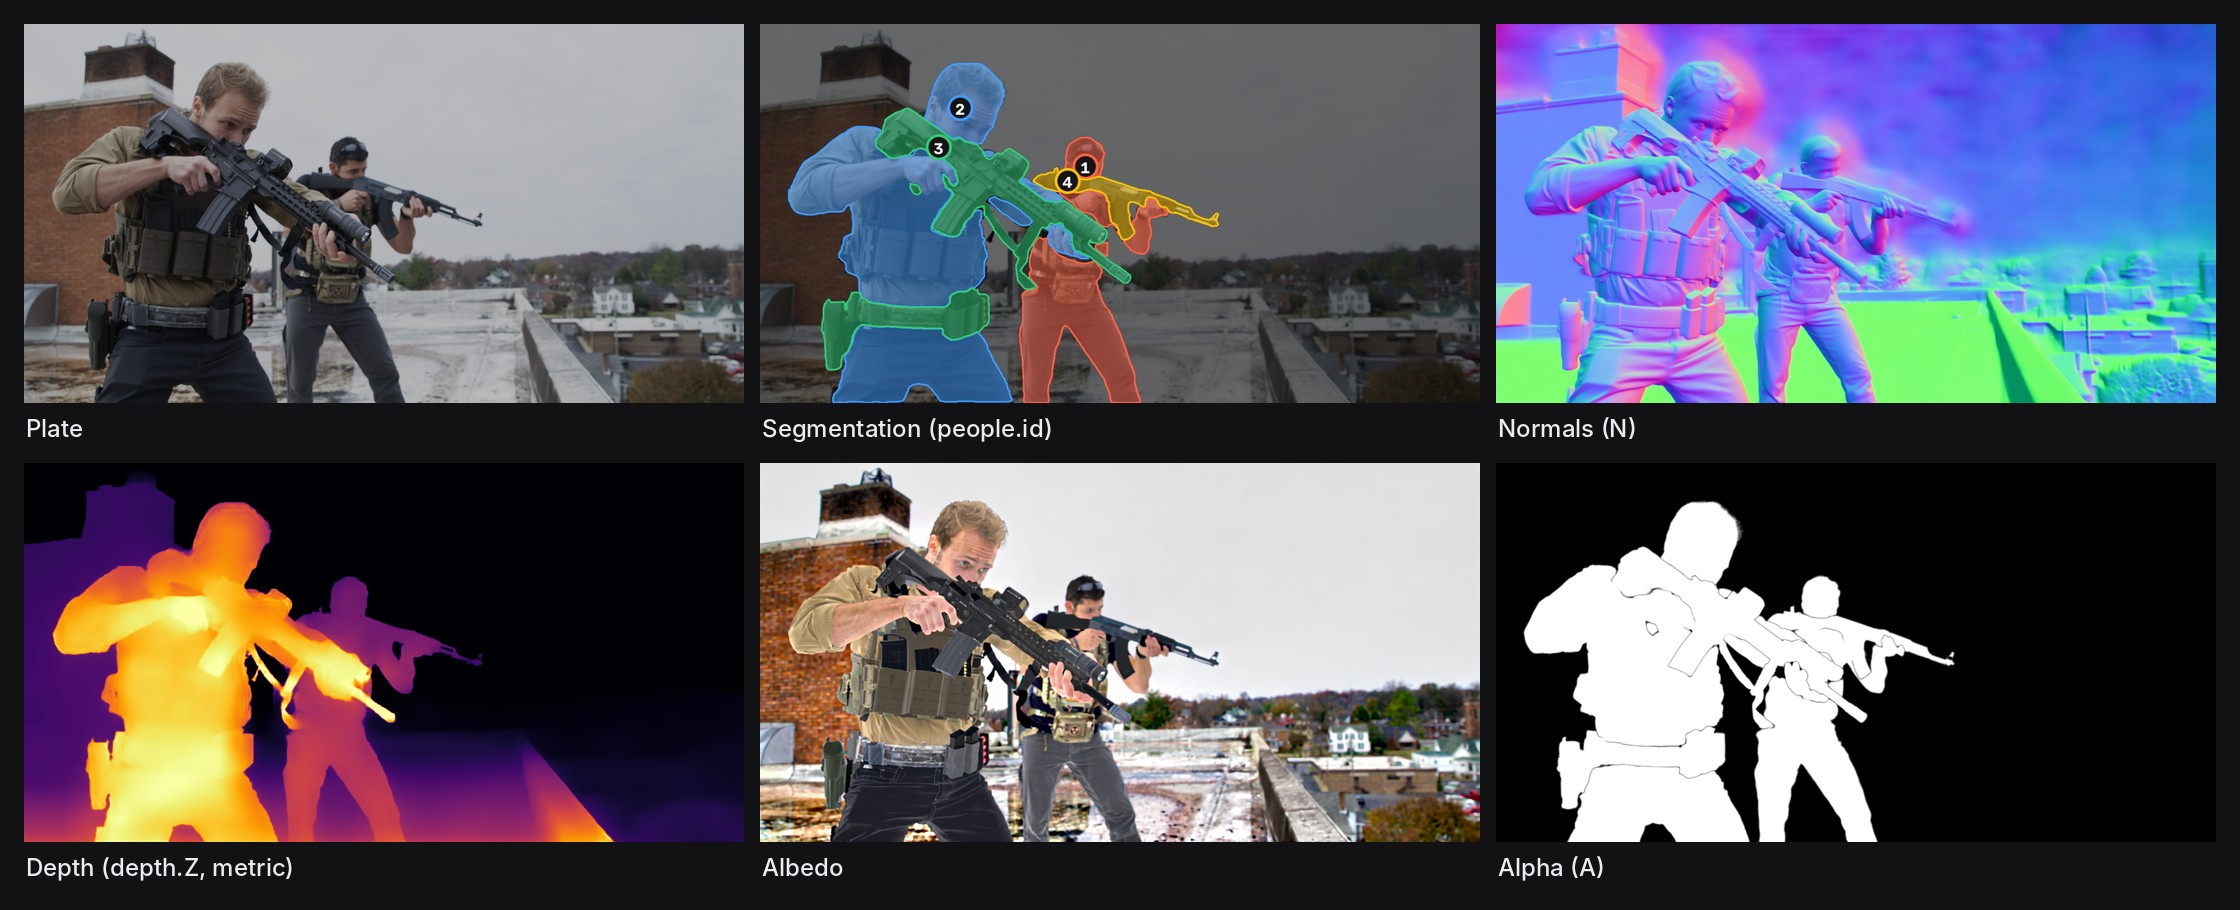
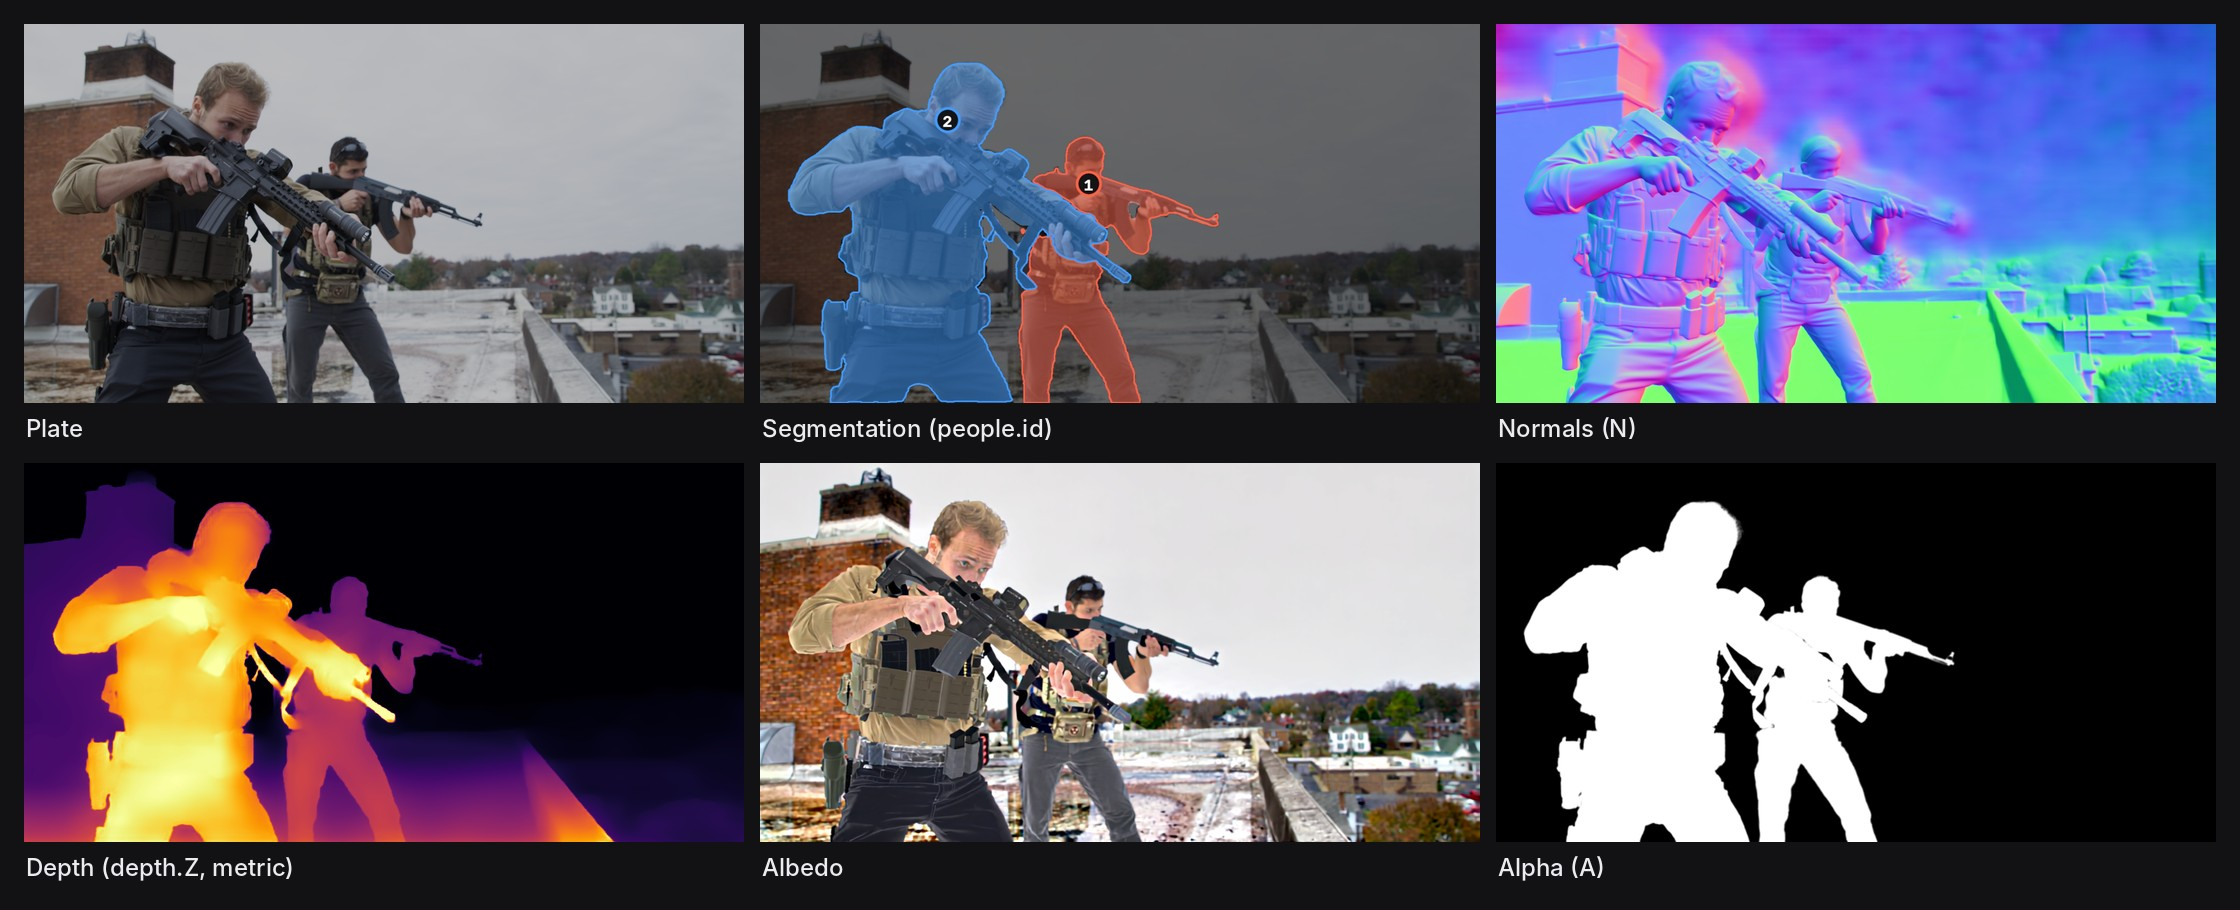
Selection alpha: no seam where two numbers touch; new numbers never hidden
- Selection (MatAnyone 2): where two selected numbers touch (a rifle on a
  body, one person in front of another), the combined A adds their soft
  edges instead of keeping the most opaque one, so no grey seam is left
- a new person / object no longer reuses a number that was unticked,
  merged or named before (it came out hidden), and Find everyone clears
  the unticked / "same as" choices of the previous numbering
- README images: the military shot with the two soldiers selected

Claude-Session: https://claude.ai/code/session_01TyL3hqyYHaug9D4nWScniM

Changed region(s): [[0.3438, 0.0923, 0.5625, 0.4], [0.8125, 0.7077, 0.8438, 0.7385], [0.7812, 0.6769, 0.8125, 0.7077]]

diff --git a/laa/pipeline.py b/laa/pipeline.py
@@ -67,10 +67,11 @@ STEP_NAMES = [s[0] for s in STEPS]
 STEP_VERSION = {"people": 4,              # 4: SAM 2.1 keyframes + propagation (Sammie-Roto style)
                 "seg": 2,                 # 2: single-channel PNGs were written mirrored
                 "albedo": 3,              # 2: face crops on the head only, 3: blend inside the head
-                "alpha": 8,               # 4: one crop per numbered person (SAM3), 5: objects = SAM mask
+                "alpha": 9,               # 4: one crop per numbered person (SAM3), 5: objects = SAM mask
                                           # 6: what a person holds stays in their alpha again
                                           # 7: no bleed from people you did not select
                                           # 8: Foreground (LTX, whole frame) / Selection (MatAnyone 2)
+                                          # 9: Selection: no seam where two numbers touch
                 "crops": 3,               # 2: one crop per numbered person, 3: the crop holds all of them
                 "write": 3}               # 2: passes can be turned off, 3: people id layer
 
@@ -838,7 +839,11 @@ class Job(object):
         m = None
         out_dir = os.path.join(self.cache, "alpha", "numbers")
         os.makedirs(out_dir, exist_ok=True)
-        combined = np.zeros((self.n, h, w), np.float32)
+        combined = np.zeros((self.n, h, w), np.float32)    # the most opaque of the numbers...
+        added = np.zeros((self.n, h, w), np.float32)       # ...and their sum, used where two touch
+        near = np.zeros((self.n, h, w), np.uint8)          # how many numbers are close to each pixel
+        r = max(2, int(round(min(h, w) * 0.01)))
+        ker = np.ones((2 * r + 1, 2 * r + 1), np.uint8)
         try:
             for j, k in enumerate(nums):
                 self.check()
@@ -871,12 +876,22 @@ class Job(object):
                     a8 = np.clip(a * 255.0 + 0.5, 0, 255).astype(np.uint8)
                     os.makedirs(os.path.dirname(kept), exist_ok=True)
                     np.save(kept, a8)
-                combined = np.maximum(combined, a8.astype(np.float32) / 255.0)
+                ak = a8.astype(np.float32) / 255.0
+                combined = np.maximum(combined, ak)
+                added += ak
+                for i in range(self.n):
+                    if masks[i].any():
+                        near[i] += cv2.dilate(masks[i].astype(np.uint8), ker) > 0
                 np.save(os.path.join(out_dir, "%d.npy" % k), a8)
         finally:
             if m is not None:
                 m.release()
                 del m
+        # where two numbers touch (a rifle on a body, one person in front of another) each one has a
+        # soft edge there: the most opaque of the two stays grey (a seam). Their sum closes it.
+        seam = near >= 2
+        combined[seam] = np.minimum(added[seam], 1.0)
+        del added, near, seam
         for i in range(self.n):
             a = combined[i]
             if (h, w) != (H, W):

diff --git a/laa/ui.py b/laa/ui.py
@@ -1410,6 +1410,7 @@ class Main(QtWidgets.QMainWindow):
                     return
                 e["keys"], e["auto"] = [], True   # SAM 3.1 numbers people its own way: start clean
                 e["names"], e["kinds"] = {}, {}
+                e["removed"], e["same"] = [], {}  # they were about the old numbers
                 self.job.save_people_edits(e)
                 self.pending, self.history = {}, []
                 self.previews.clear()
@@ -1881,6 +1882,11 @@ class Main(QtWidgets.QMainWindow):
         used = set(self.job._read_done("people").get("ids", [])) if self._people_ready() else set()
         used |= {int(k["target"]) for k in self._keys()}
         used |= {int(t) for _, t in self.pending}
+        e = self.job.people_edits()               # numbers still named / unticked / merged from before
+        used |= {int(k) for k in e.get("removed", [])}
+        for d in (e.get("same", {}), e.get("names", {}), e.get("kinds", {})):
+            used |= {int(k) for k in d}
+        used |= {int(v) for v in e.get("same", {}).values()}
         return max(used | {0}) + 1
 
     def _view_click(self, fx, fy, button):
